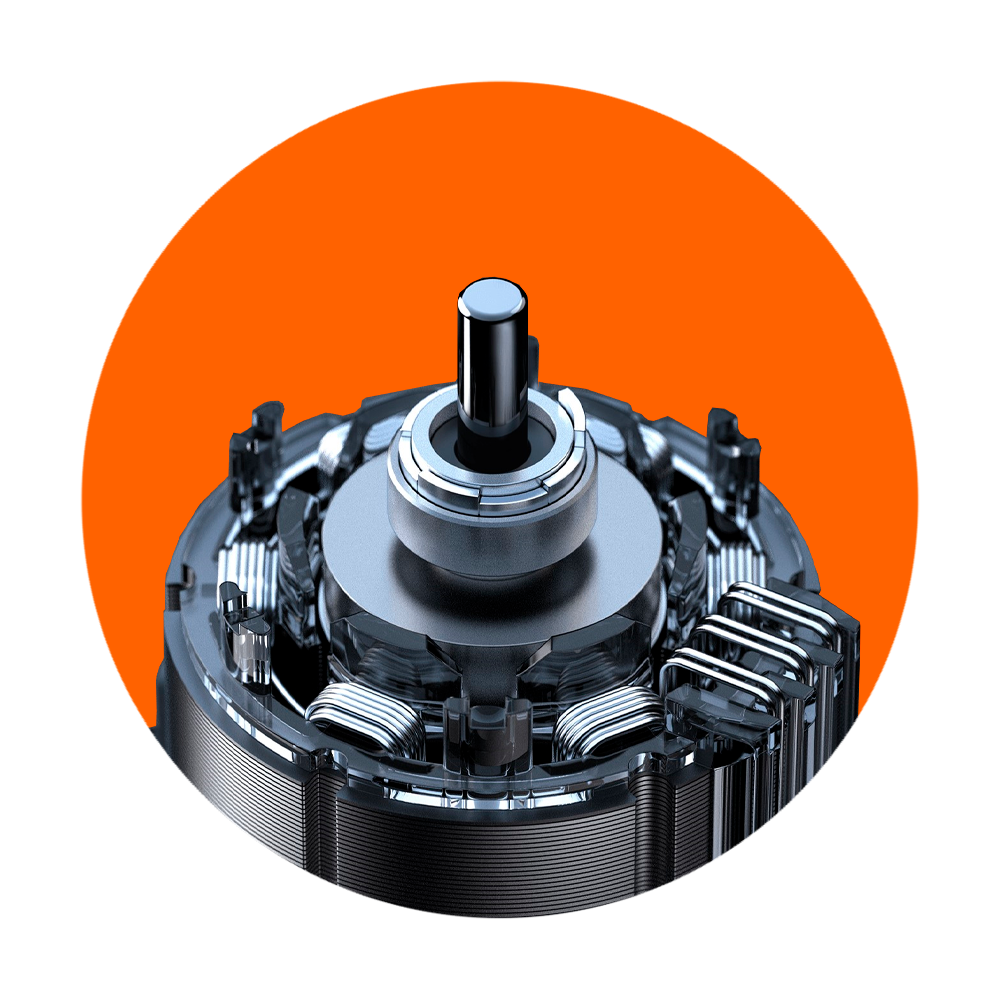
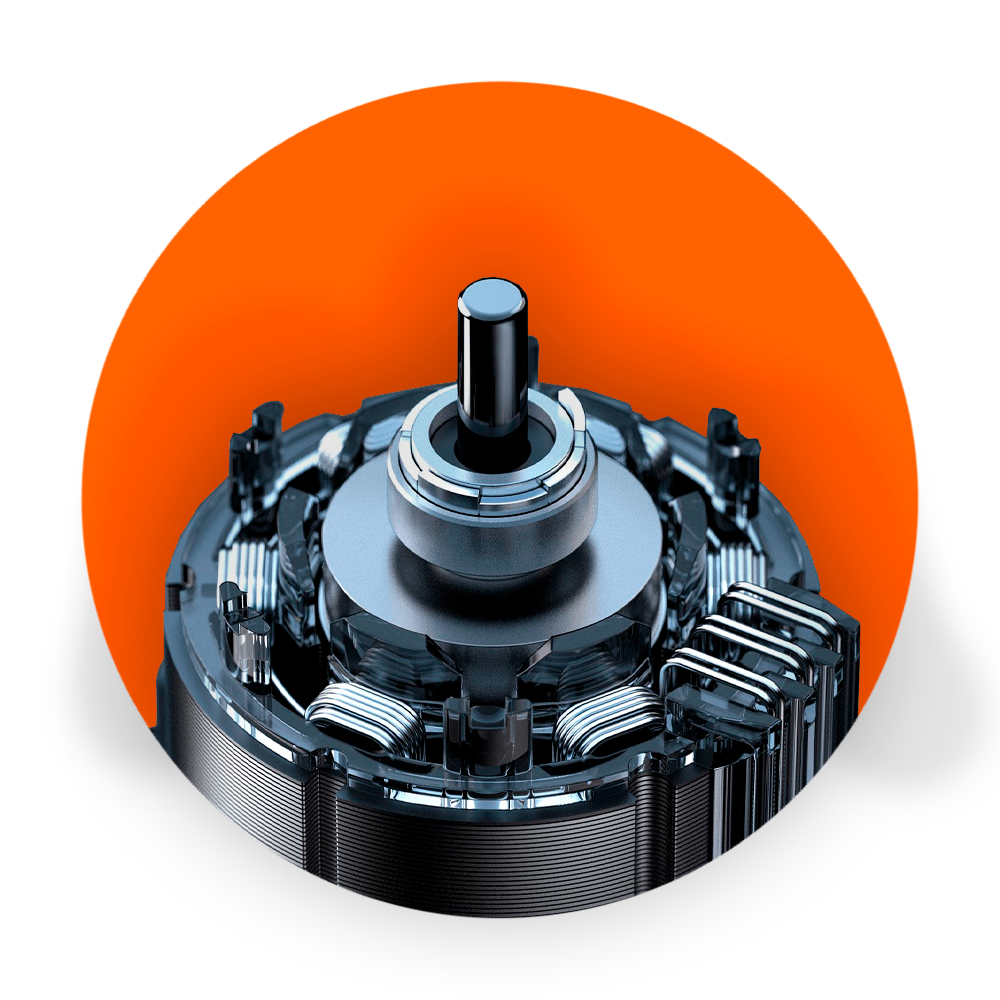
asd

diff --git a/responsive-landing-page-headphones-main/index.html b/responsive-landing-page-headphones-main/index.html
@@ -35,7 +35,7 @@
                             <a href="#case" class="nav__link">Especificaciones</a>
                         </li>
                         <li class="nav__item">
-                            <a href="#products" class="nav__link">Galería</a>
+                            <a href="#products" class="nav__link">Modalidades de uso</a>
                         </li>
                     </ul>
 
@@ -56,8 +56,8 @@
                 <div class="home__container container grid">
                     <div class="circle-container">
                         <span class="circle"></span>
-                        <img src="assets/img/ruido3.png" alt="" class="home__img2">
-                        <img src="assets/img/taladroHome.png" alt="" class="home__img">
+                    <!--     <img src="assets/img/ruido3.png" alt="" class="home__img2"> -->
+                        <img src="assets/img/taladroHomee.png" alt="" class="home__img">
                         
                         
                     </div>
@@ -90,10 +90,10 @@
             <!--=============== SPONSOR ===============-->
             <section class="sponsor section">
                 <div class="sponsor__container container grid">
-                    <img src="assets/img/sponsor01.png" alt="" class="sponsor__img">
-                    <img src="assets/img/sponsor04.png" alt="" class="sponsor__img">
-                    <img src="assets/img/sponsor03.png" alt="" class="sponsor__img">
-                    <img src="assets/img/sponsor02.png" alt="" class="sponsor__img">
+                    <img src="assets/img/sponsor001.png" alt="" class="sponsor__img">
+                    <img src="assets/img/sponsor002.png" alt="" class="sponsor__img">
+                    <img src="assets/img/sponsor003.png" alt="" class="sponsor__img">
+                    <img src="assets/img/sponsor004.png" alt="" class="sponsor__img">
                 </div>
             </section>
 
@@ -105,26 +105,26 @@
                     <div class="specs__content grid">
                         
                         <div class="specs__data">
-                            <i class="ri-flashlight-line specs__icon"></i>
+                            <i class="ri-flashlight-fill specs__icon"></i>
                             <h3 class="specs__title">Sumamente rápido</h3>
                             <span class="specs__subtitle">Alcanza una velocidad de </br>
                                 1400 revoluciones por minuto. </span>
                         </div>
     
                         <div class="specs__data">
-                            <i class="ri-battery-charge-line specs__icon"></i>
+                            <i class="ri-battery-charge-fill specs__icon"></i>
                             <h3 class="specs__title">Batería duradera</h3>
                             <span class="specs__subtitle">La batería de litio promete una larga </br> energía entre cada carga.</span>
                         </div>
     
                         <div class="specs__data">
-                            <i class="ri-lock-line specs__icon"></i>
+                            <i class="ri-lock-fill specs__icon"></i>
                             <h3 class="specs__title">Modo seguro</h3>
                             <span class="specs__subtitle">Frenado lento al soltar para mayor </br> seguridad del usuario.</span>
                         </div>
     
                         <div class="specs__data">
-                            <i class="ri-fingerprint-line specs__icon"></i>
+                            <i class="ri-fingerprint-fill specs__icon"></i>
                             <h3 class="specs__title">Pantalla táctil</h3>
                             <span class="specs__subtitle">Pantalla de alta cálidad para cambiar </br> entre los distintos modos. </span>
                         </div>
@@ -147,23 +147,40 @@
                     </div>
 
                     <div class="case__data">
+                        <h2 class="discount__title"> Display Touch  </h2>
                         <p class="case__description">
-                            Pantalla de altísima resolución con visualización en tiempo real del modo de funcionamiento actual y velocidad de marcha manual.
-                            Revolucionando los conceptos de las herramientas convencionales con el poder en tus manos.
+                            Panel de extrema definición con exhibición en tiempo real del estado de cada operación actual y velocidad de desplazamiento manual.
+                            La pantalla brinda información de: <br> Modo automatico, atornillar/desenroscar, modo manual, ajuste de marchas, modo de pulso, nivel de bateria. 
+                     
                         </p>
                       
                     </div>
                     
                 </div>
-            </section>
 
-                 <!--=============== DISCOUNT ===============-->
-                 <section class="discount section">
+                <div class="case__container container grid">
+                    <div>
+                        <img src="assets/img/case03.png" alt="" class="case__img">
+                    </div>
+
+                    <div class="case__data">
+                        <h2 class="discount__title"> Batería actualizada  </h2>
+                        <p class="case__description">
+                            Batería de litio de alta calidad de 2000 mAh incorporada con una capacidad de más de 550 tornillos autorroscantes*
+                            con una carga completa. El innovador diseño de la batería elimina la necesidad de voluminosos paquetes de baterías adicionales.
+                     
+                        </p>
+                      
+                    </div>
+                    
+                </div>
+
+                <section class="discount section">
                     <div class="discount__container container grid">
                         <div class="discount__animate">
                             <h2 class="discount__title">Conocé el modo<br> seguridad Xiaomi</h2>
                             <p class="discount__description">
-                                Diseño integrado electromecánicamente para un funcionamiento seguro y sin chispas. Bajo desgaste del motor, bajo nivel de ruido y alta conversión de potencia, lo que se traduce en una vida útil más prolongada.</p>
+                                Diseño integrado mecánicamente para un funcionamiento seguro y sin chispas. Bajo desgaste del motor, bajo nivel de ruido y alta conversión de potencia, lo que se traduce en una vida útil más prolongada.</p>
                            <!--  <a href="#" class="button button--flex"> -->
                                <!--  <i class="ri-shopping-bag-line button__icon"></i> Modo seguro -->
                             </a>
@@ -173,11 +190,22 @@
                     </div>
                 </section>
 
+                
+            </section>
 
+                 <!--=============== DISCOUNT ===============-->
+              
+            <!--     <div class="imagenGrande">
+                
+                    <img src="assets/img/section6Bg.png" alt="">
+    
+                </div>    -->
+
+<!-- 
             <section class="case section grid" id="case">
                 <div class="case__container container grid">
                     <div>
-                        <img src="assets/img/case01.png" alt="" class="case__img">
+                        <img src="assets/img/case02.png" alt="" class="case__img">
                     </div>
 
                     <div class="case__data">
@@ -192,11 +220,12 @@
                     
                 </div>
             </section>
-
+ -->
        
 
             <!--=============== PRODUCTS ===============-->
 
+          <section id="products">
             <h2 class="section__title section__title-gradient products__line">
                 Modalidades <br> de uso
             </h2>
@@ -221,6 +250,7 @@
                   <img src="assets/img/tuvosdepvc.png" alt="Imagen 6">
                 </div>
               </div>
+            </section>
 
 
 
@@ -296,6 +326,7 @@
                     </article>
                 </div>
             </section> -->
+                
         </main>
 
         <!--=============== FOOTER ===============-->

diff --git a/responsive-landing-page-headphones-main/assets/css/styles.css b/responsive-landing-page-headphones-main/assets/css/styles.css
@@ -3,8 +3,8 @@
   grid-template-columns: repeat(3, 1fr);
   grid-gap: 20px;
   justify-items: center;
-  padding: 0% 20%;
-  padding-top: 3%;
+  padding: 0% 26%;
+  padding-top: 2%;
 }
 
 .grid-item {
@@ -21,6 +21,15 @@
 
 .grid-item:hover img {
   transform: scale(1.04); /* Cambia el valor para ajustar el nivel de agrandamiento */
+}
+
+.imagenGrande{
+  margin-top: 70px;
+  margin-bottom: 70px;
+}
+
+#products{
+  padding-top: 5%;
 }
 
 
@@ -62,7 +71,11 @@
   min-width: 100%;
   display: flex;
   position: relative;
-}
+} 
+.circle-container img {
+  transform: scale(1.18);
+} 
+
 :root {
   --header-height: 3rem;
   /*========== Colors ==========*/
@@ -294,6 +307,8 @@ img {
 }
 
 /*=============== HOME ===============*/
+
+
 .home__img {
   width: 350px;
   position: absolute;
@@ -397,7 +412,8 @@ strong {
 }
 
 .specs__content {
-  row-gap: 1.5rem;
+  padding-right: 20%;
+  row-gap: 2.5rem;
 }
 
 .specs__data {
@@ -407,7 +423,7 @@ strong {
 
 .specs__icon {
   font-size: 1.2rem;
-  color: var(--white-color);
+  color: #FF6200;
 }
 
 .specs__title {
@@ -431,6 +447,9 @@ strong {
 }
 
 /*=============== CASE ===============*/
+
+
+
 .case__container {
   position: relative;
   grid-template-columns: repeat(2, 1fr);
@@ -450,7 +469,6 @@ strong {
   margin-bottom: var(--mb-1-5);
   line-height: var(--text-line-height);
 }
-
 /*=============== DISCOUNT ===============*/
 .discount__container {
   position: relative;
@@ -462,6 +480,7 @@ strong {
 }
 
 .discount__title {
+  
   font-size: var(--h3-font-size);
   margin-bottom: var(--mb-0-75);
 }
@@ -728,7 +747,7 @@ strong {
     padding: 0;
   }
   .case__container {
-    grid-template-columns: max-content 250px;
+    grid-template-columns: max-content 400px;
     justify-content: center;
     align-items: center;
     column-gap: 2rem;
@@ -786,14 +805,16 @@ strong {
     left: 4rem;
   }
   .home__data {
+    padding-left: 1.5rem;
     padding-top: 8rem;
   }
   .specs__img {
+    margin-left: 8%;
     padding-top: 5%;
     width: 400px;
   }
   .case__container {
-    column-gap: 5rem;
+    column-gap: 8rem;
   }
   .case__img {
     width: 300px;
@@ -802,10 +823,11 @@ strong {
     margin-bottom: var(--mb-2);
   }
   .discount__container {
-    grid-template-columns: 250px max-content;
+    grid-template-columns: 320px max-content;
     justify-content: center;
     column-gap: 5rem;
     padding: 3rem 0;
+    margin-bottom: -2%;
   }
   .discount__title {
     font-size: var(--h2-font-size);
@@ -838,10 +860,14 @@ strong {
     margin-right: auto;
   }
   .home__img {
-    width: 400px;
-    left: -2rem;
-    top: 6rem;
+    width: 450px;
+    left: -4rem;
+    top: 4.7rem;
   }
+  .home__img:hover{
+    transform: scale(1.2);
+  }
+ 
   .home__img2 {
 
     width: 700px;
@@ -872,3 +898,4 @@ strong {
     margin-top: 9rem;
   }
 }
+

diff --git a/responsive-landing-page-headphones-main/assets/js/main.js b/responsive-landing-page-headphones-main/assets/js/main.js
@@ -78,6 +78,10 @@ sr.reveal(`.home__footer`,{delay: 700})
 sr.reveal(`.home__img`,{delay: 900, origin: 'top'})
 sr.reveal(`.home__img2`,{delay: 900, origin: 'top'})
 
+sr.reveal(`.discount__container`,{delay: 900, origin: 'top'})
+sr.reveal(`.grid-container`,{delay: 900, origin: 'top'})
+sr.reveal(`.imagenGrande`,{delay: 900, origin: 'top'})
+
 sr.reveal(`.sponsor__img, .products__card, .footer__logo, .footer__content, .footer__copy`,{origin: 'top', interval: 100})
 sr.reveal(`.specs__data, .discount__animate`,{origin: 'left', interval: 100})
 sr.reveal(`.specs__img, .discount__img`,{origin: 'right'})
